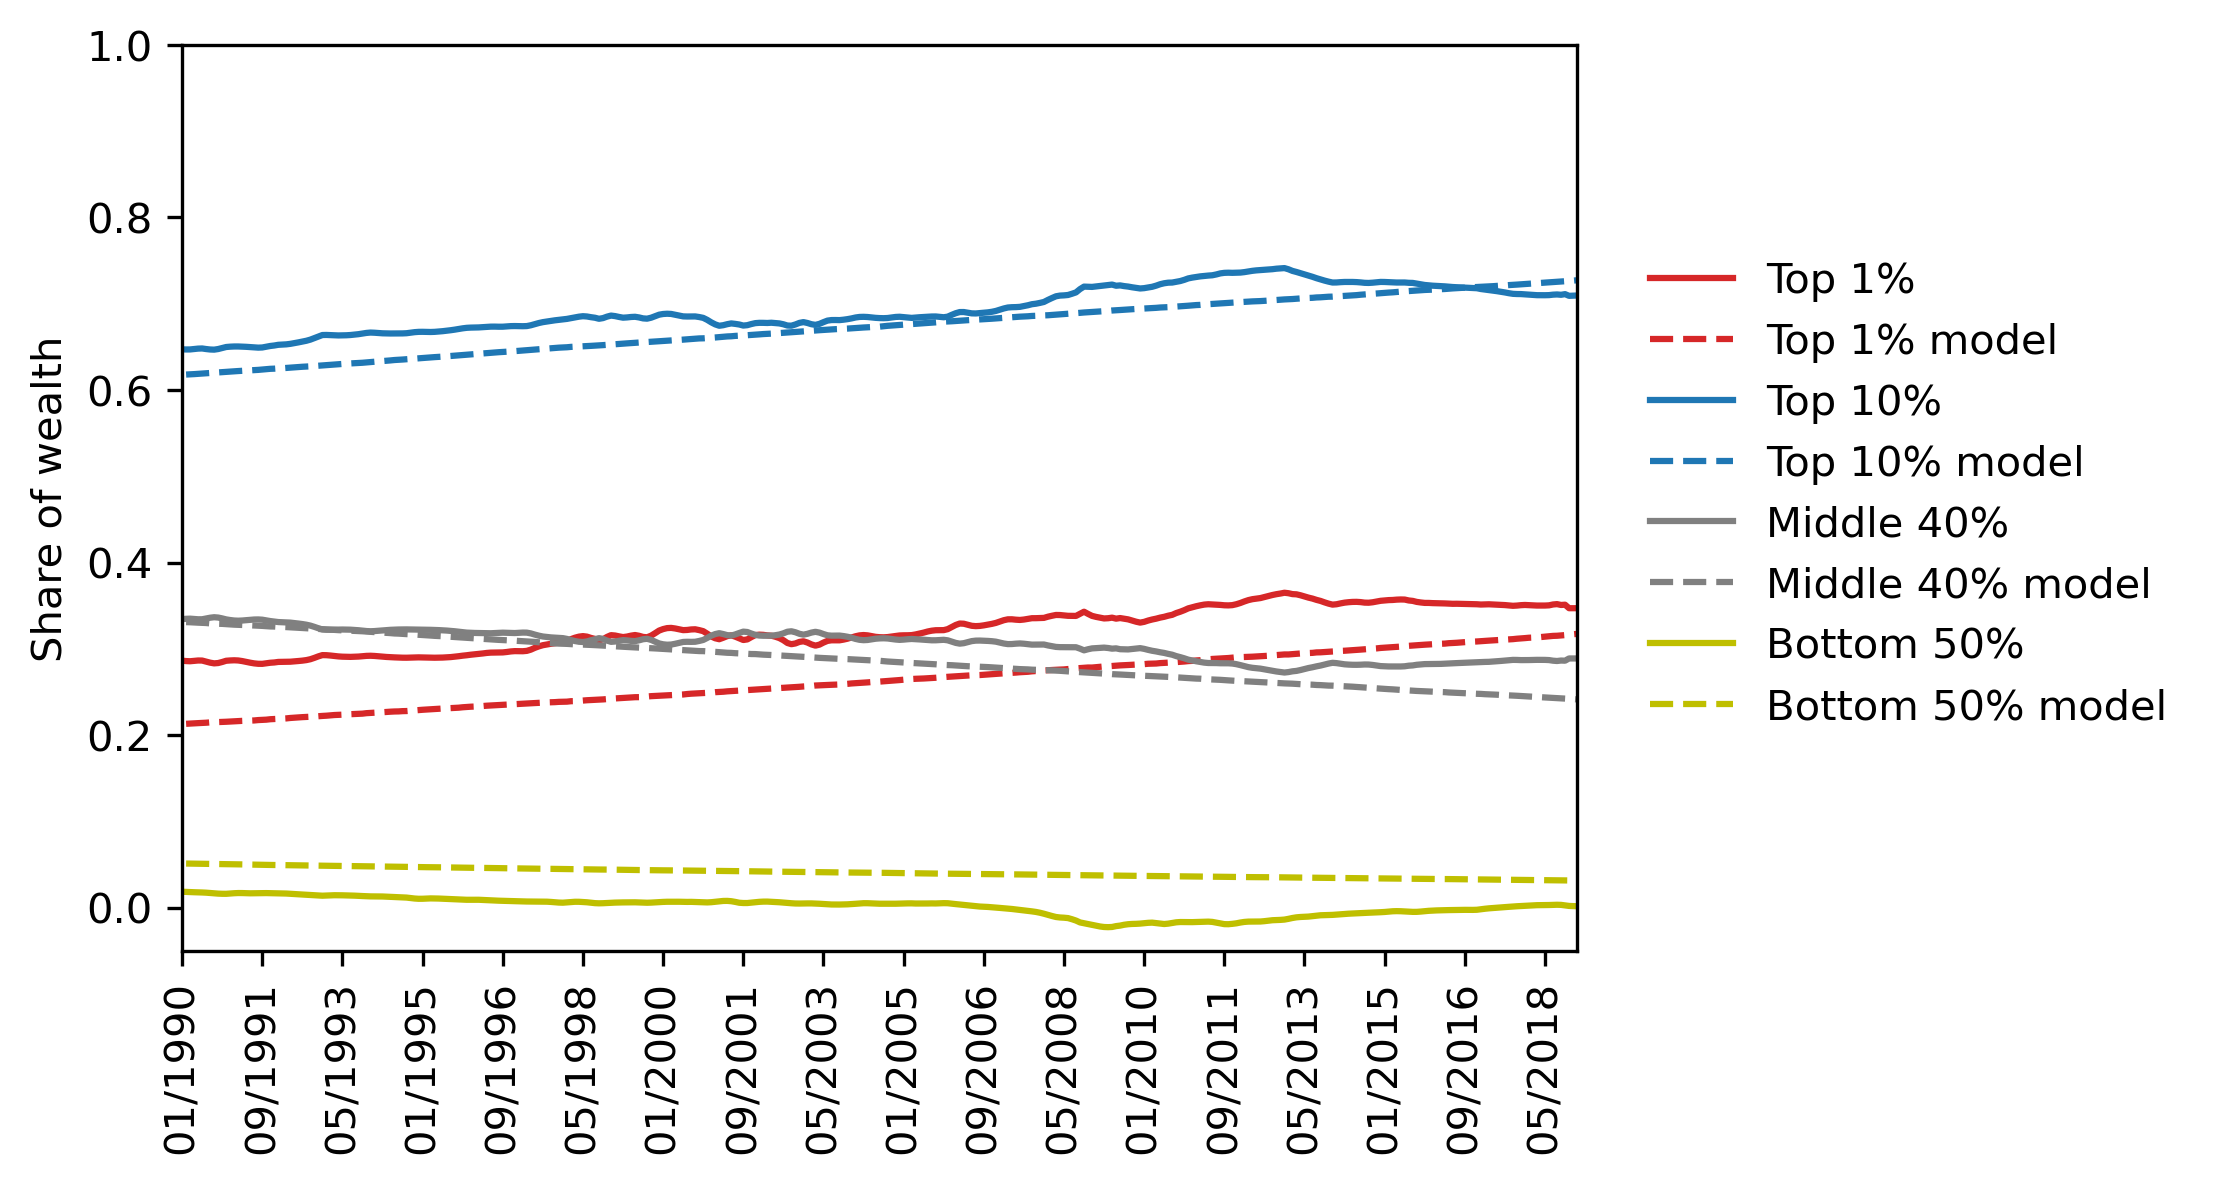
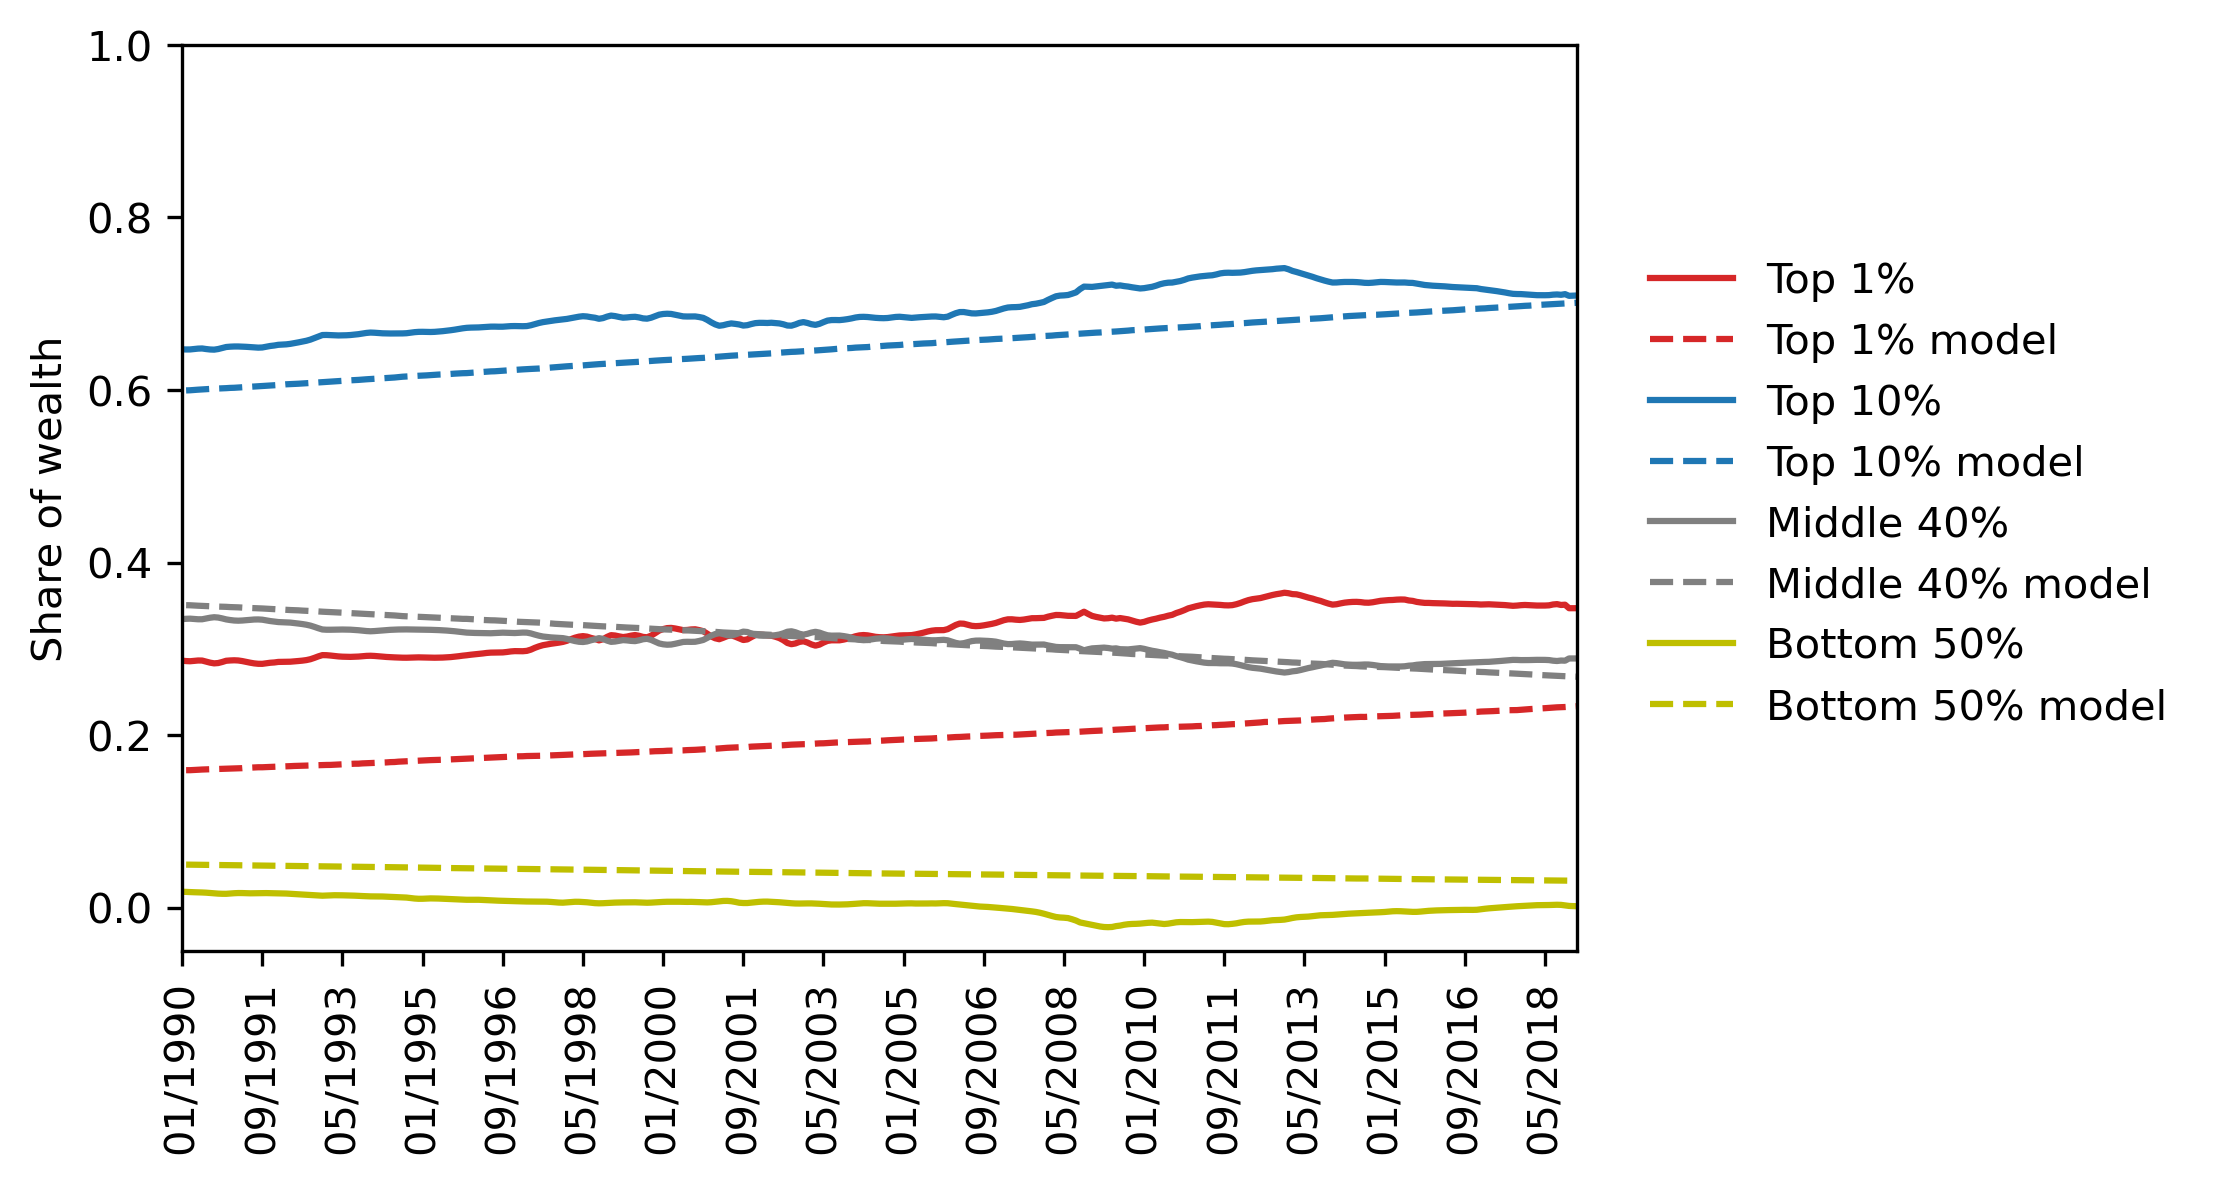
correction of system state updates

diff --git a/enkf_yo.py b/enkf_yo.py
@@ -198,9 +198,13 @@ class EnsembleKalmanFilter:
         """
         Update individual model states based on state ensemble.
         """
-        #for i in range(self.ensemble_size):
-         #   self.models[i].state = self.state_ensemble[:, i]
-        pass ### will be filled later
+        for i in range(self.ensemble_size):
+            self.models[i].micro_state = self.micro_state_ensemble[:, i]
+            self.models[i].macro_state = self.macro_state_ensemble[:, i]
+            self.models[i].update_agent_states()
+            assert self.models[i].agents[0].wealth == self.micro_state_ensemble[:, i][0]
+        ##### HERE EACH MODEL ECONOMY NEEDS TO UPDATE ITS OWN INTERNAL AGENT
+        ##### STATES 
 
     def plot_macro_state(self, log_var: str):
         
@@ -331,7 +335,7 @@ class EnsembleKalmanFilter:
         #ax.xaxis.set_major_formatter(LogFormatterSciNotation(base=10))
         #ax.yaxis.set_major_formatter(LogFormatterSciNotation(base=10))
         plt.show()
-        return X,Y,X2,Y2, Z2
+        #return X,Y,X2,Y2, Z2
         
     def plot_micro_state(self):
         
@@ -366,6 +370,40 @@ class EnsembleKalmanFilter:
                     label = "Mean of microstates")
         ax.legend(frameon = False)
         plt.show()
+        
+    def make_fanchart():
+        
+        '''make fancharts of model runs over growth rate, average wealth per adult,
+        as well as wealth share by group until up to time point
+        where the filter/model is applied to. Similar to current fig 2'''
+        
+        ### PLOT empirical monthly wealth Data vs model output for chosen time-frame
+        colors = ["tab:red", "tab:blue", "grey", "y"]
+        wealth_groups = ["Top 1%", "Top 10%", "Middle 40%", "Bottom 50%"]
+        
+        
+        '''
+        ### PLOT empirical monthly wealth Data (01/1990 to 12/2018) vs model output
+        colors = ["tab:red", "tab:blue", "grey", "y"]
+        wealth_groups = ["Top 1%", "Top 10%", "Middle 40%", "Bottom 50%"]
+        fig, ax = plt.subplots(figsize=(6,4))
+        for i, g in enumerate(wealth_groups): 
+            x = d1["date_short"][d1["group"] == g].reset_index(drop = True).iloc[168:516]
+            y = d1["real_wealth_share"][d1["group"] == g].reset_index(drop = True).iloc[168:516]
+            x1 = np.linspace(1,time_horizon,time_horizon)
+            y1 = wealth_groups_t_data[i]
+            ax.plot(x,y, label = g, color = colors[i])
+            ax.plot(x1, y1, label = g + ' model', linestyle = '--', color = colors[i])
+            
+        x = x.reset_index(drop=True)
+        ax.set_xticks(x.iloc[0::20].index)
+        ax.set_xticklabels(x.iloc[0::20], rotation = 90)
+        ax.legend(frameon = False, bbox_to_anchor=(0.45, 0.7, 1., .102))
+        ax.set_ylim((-0.05, 1))
+        ax.set_ylabel("Share of wealth")
+        ax.margins(0)
+        '''
+        pass
 
     def step(self, update: bool):
         
@@ -388,3 +426,7 @@ class EnsembleKalmanFilter:
         #### it either includes all 3 (previous, new, observation) state estimates   
         #### or only the non-updated plus obsverational one
         self.plot_macro_state(log_var = "no")
+        if update == True: 
+            self.update_models()
+            
+        

diff --git a/economy_class_wealth.py b/economy_class_wealth.py
@@ -175,6 +175,15 @@ class Economy():
         self.micro_state = self.micro_state_vec_data()[:,0]
         self.recalculate_wealth_shares()
         
+    def update_agent_states(self):
+        '''update agent states after EnKF state vector update. Needs 
+        possibly to be verified further to ensure correct running results.'''
+        for count, x in enumerate(self.agents): 
+            x.wealth = self.micro_state[count]
+            print(x.wealth)
+            
+            
+        #for count, x in enumerate(enkf.models[0].agents): print(count, x, x.wealth,enkf.models[0].micro_state[count])
         
     def __repr__(self):
         return f"{self.__class__.__name__}('population size: {self.num_agents}'),('economy size: {self.economy_wealth}')"

diff --git a/run_economy.py b/run_economy.py
@@ -43,7 +43,7 @@ model_params = {"population_size": num_agents,
 enkf = EnsembleKalmanFilter(Economy, filter_params, model_params)
 print(enkf.micro_state_ensemble)
 print(enkf.macro_state_ensemble)
-time_horizon = 12 ## 29 years * 12 months
+time_horizon = 2 ## 29 years * 12 months
 for i in tqdm(range(time_horizon)):
     ### set update to false or true
     if i % 10 != 0 or i == 0: 
